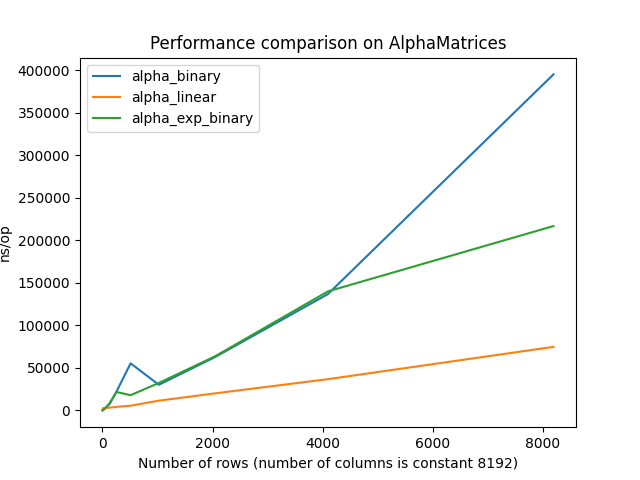
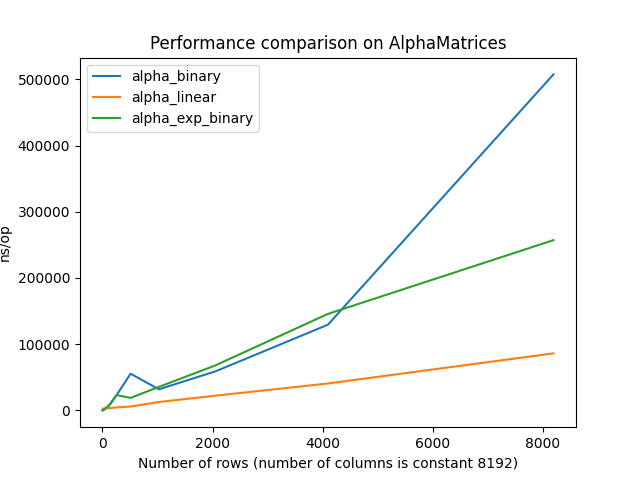
docs: update README.md & add new graphs & update old ones

diff --git a/README.md b/README.md
@@ -28,11 +28,21 @@ https://github.com/YawKar/matrix-search-benchmark/blob/ade5e61ed2ded29ebb2068f9c
 _Реализация:_
 https://github.com/YawKar/matrix-search-benchmark/blob/ade5e61ed2ded29ebb2068f9cd41a351266a4ea6/src/main/java/dev/yawkar/matrix/generator/BetaGenerator.java#L8-L16
 
+# Полученные замеры
+Замеры производились с помощью Java Microbenchmark Harness: https://github.com/openjdk/jmh
+
+https://github.com/YawKar/matrix-search-benchmark/blob/fe2b4cce473d210c4d585b3f5a63a228ee822d6b/sample_results.txt#L1-L79
+
 # Визуализация
 
-## Производительность на матрицах AlphaGenerator
-![graph1](https://github.com/YawKar/matrix-search-benchmark/raw/master/AlphaMatrices.png)
+## Производительность на матрицах AlphaGenerator (Linear)
+![AlphaMatrices](https://github.com/YawKar/matrix-search-benchmark/raw/master/AlphaMatrices.png)
 
-## Производительность на матрицах BetaGenerator
-![graph1](https://github.com/YawKar/matrix-search-benchmark/raw/master/BetaMatrices.png)
+## Производительность на матрицах AlphaGenerator (SemiLog)
+![AlphaMatricesSemiLog](https://github.com/YawKar/matrix-search-benchmark/raw/master/AlphaMatricesSemiLog.png)
 
+## Производительность на матрицах BetaGenerator (Linear)
+![BetaMatrices](https://github.com/YawKar/matrix-search-benchmark/raw/master/BetaMatrices.png)
+
+## Производительность на матрицах BetaGenerator (SemiLog)
+![BetaMatricesSemiLog](https://github.com/YawKar/matrix-search-benchmark/raw/master/BetaMatricesSemiLog.png)
